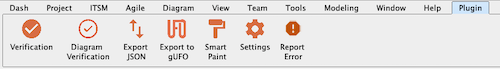
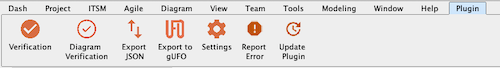
Updates README

diff --git a/README.md b/README.md
@@ -69,6 +69,8 @@ And last, but not least, this project is supported by the [OntoUML.org](https://
 
 ![A screenshot showing the toolbar of the OntoUML plugin](./resources/feature-toolbar.png)
 
+In order to update to a new version of the plugin, please download the latest [release](https://github.com/OntoUML/ontouml-vp-plugin/releases) as a ZIP file and select it through the "Update Plugin" button in the plugin (available from version 0.3.0).
+
 Back to [top](#ontouml-plugin-for-visual-paradigm).
 
 ___
@@ -209,6 +211,8 @@ ___
 
 * [Why Protégé gives me an error message when I try to open my ontology exported to gUFO?](#why-protégé-gives-me-an-error-message-when-i-try-to-open-my-ontology-exported-to-gufo)
 
+* [I had an error while updating the plugin through the "Update Plugin" button and now it does not work](#I-had-an-error-while-updating-the-plugin-through-the-"Update-Plugin"-button-and-now-it-does-not-work)
+
 ### Why do I get the error message "The ID [...] is already in use"?
 
 ![Error message: ID already in use](./resources/faq-id-in-use.png)
@@ -226,5 +230,9 @@ Some users reported issues when trying to open their ontologies on [Protégé](h
 Also, make sure that your machine is connected to the internet so Protégé can load the [gUFO](https://nemo-ufes.github.io/gufo/) ontology which is used but not included in the exported file.
 
 If you still have problems opening your ontology, please [report it](#Report-Errors) so we can improve our solutions.
+
+### I had an error while updating the plugin through the "Update Plugin" button and now it does not work
+
+In that case, the error may have corrupted the previous installation. Please access the plugins folder of Visual Paradigm (instructions [here](#why-do-i-get-the-error-message-"the-id-[...]-is-already-in-use")) and manually remove old plugins' folders. After this, extract the new version you tried to update to into this (now empty) folder. If you have other Visual Paradigm plugins in these folder, there is no need to delete does, only the OntoUML one.
 
 Back to [top](#ontouml-plugin-for-visual-paradigm).
